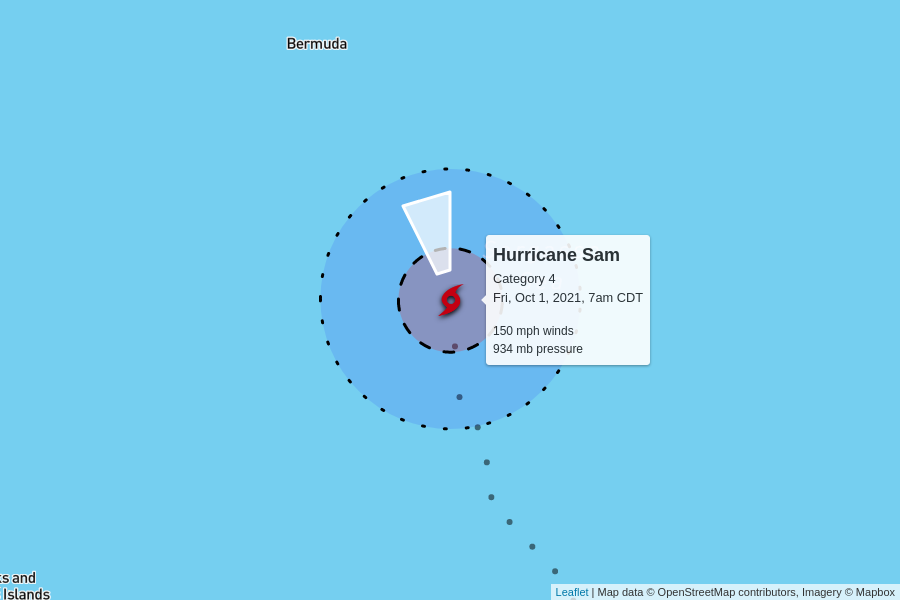
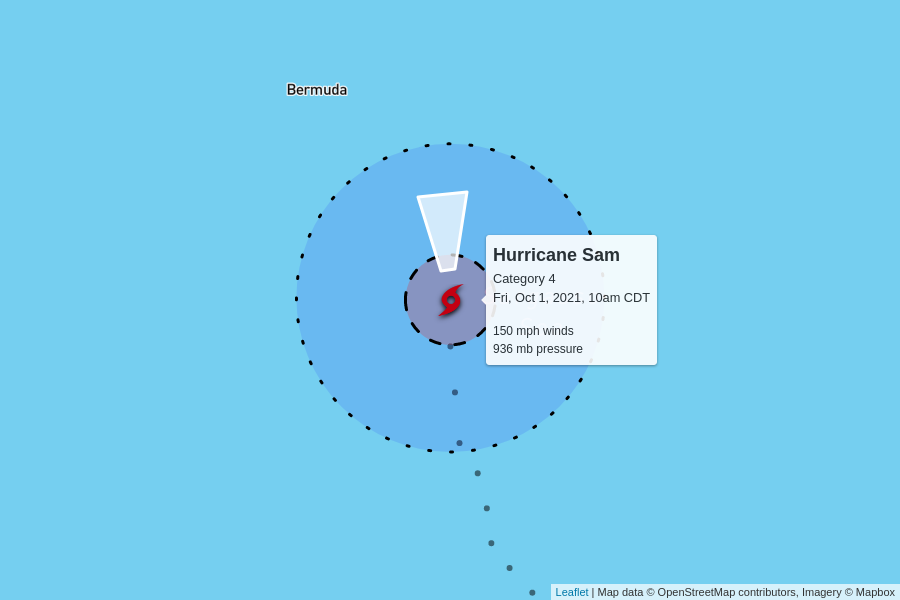
automatic update

diff --git a/docs/index.html b/docs/index.html
@@ -100,7 +100,7 @@
         <td colspan="6" class="storm category-4" >
           <h2>
             Hurricane Sam - Category 4
-            <p class="updated">last updated <span data-time>2021-10-01T12:00:00.000Z</span></p>
+            <p class="updated">last updated <span data-time>2021-10-01T15:00:00.000Z</span></p>
           </h2>
         </td>
       </tr>
@@ -116,11 +116,11 @@
       <tr>
         <td class="spacer"></td>
         <td>150 mph</td>
-        <td>934 mb</td>
+        <td>936 mb</td>
         <td>
-          17 mph to the north-northwest
+          21 mph to the north
           <br/>
-          <span style="display: inline-block; font-size: 1.5em; transform: rotate(345deg);">↑</span>
+          <span style="display: inline-block; font-size: 1.5em; transform: rotate(355deg);">↑</span>
         </td>
         <td><a href="https://raw.githubusercontent.com/mgwalker/atlantic-hurricanes/main/data/csv/AL182021.csv">AL182021.csv</a></td>
         <td><a href="https://www.nhc.noaa.gov/archive/2021/SAM.shtml?">NHC advisories</a></td>
@@ -144,7 +144,7 @@
         <td colspan="6" class="storm category-0" >
           <h2>
             Tropical Storm Victor
-            <p class="updated">last updated <span data-time>2021-10-01T09:00:00.000Z</span></p>
+            <p class="updated">last updated <span data-time>2021-10-01T15:00:00.000Z</span></p>
           </h2>
         </td>
       </tr>
@@ -159,12 +159,12 @@
       </tr>
       <tr>
         <td class="spacer"></td>
-        <td>60 mph</td>
+        <td>65 mph</td>
         <td>997 mb</td>
         <td>
-          15 mph to the northwest
+          15 mph to the west-northwest
           <br/>
-          <span style="display: inline-block; font-size: 1.5em; transform: rotate(305deg);">↑</span>
+          <span style="display: inline-block; font-size: 1.5em; transform: rotate(295deg);">↑</span>
         </td>
         <td><a href="https://raw.githubusercontent.com/mgwalker/atlantic-hurricanes/main/data/csv/AL202021.csv">AL202021.csv</a></td>
         <td><a href="https://www.nhc.noaa.gov/archive/2021/VICTOR.shtml?">NHC advisories</a></td>
